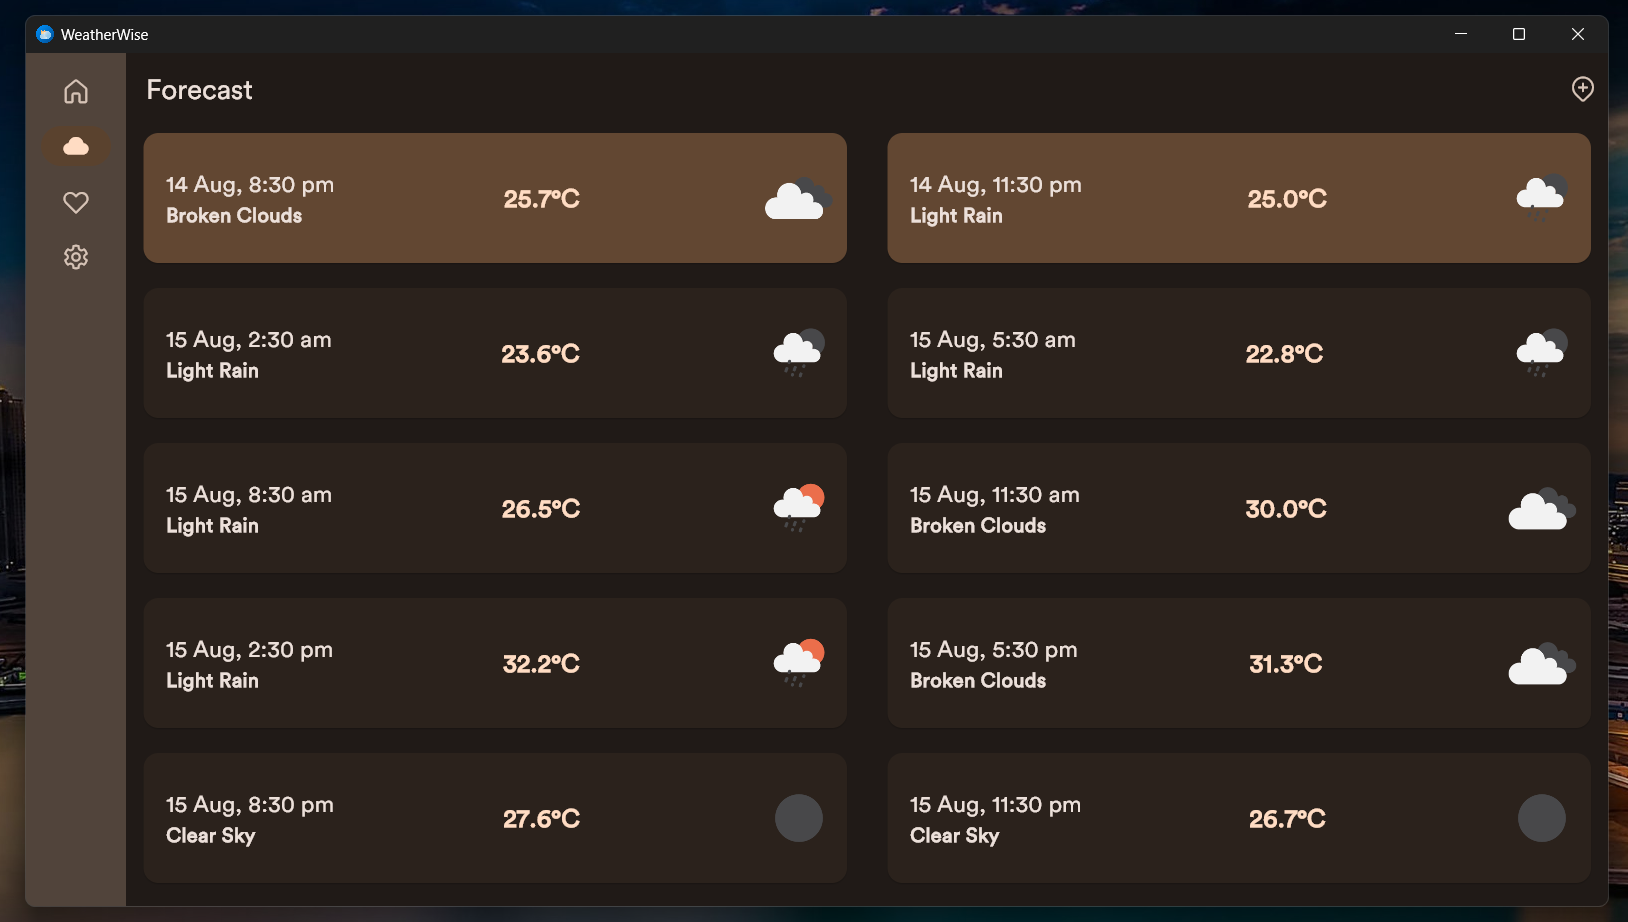
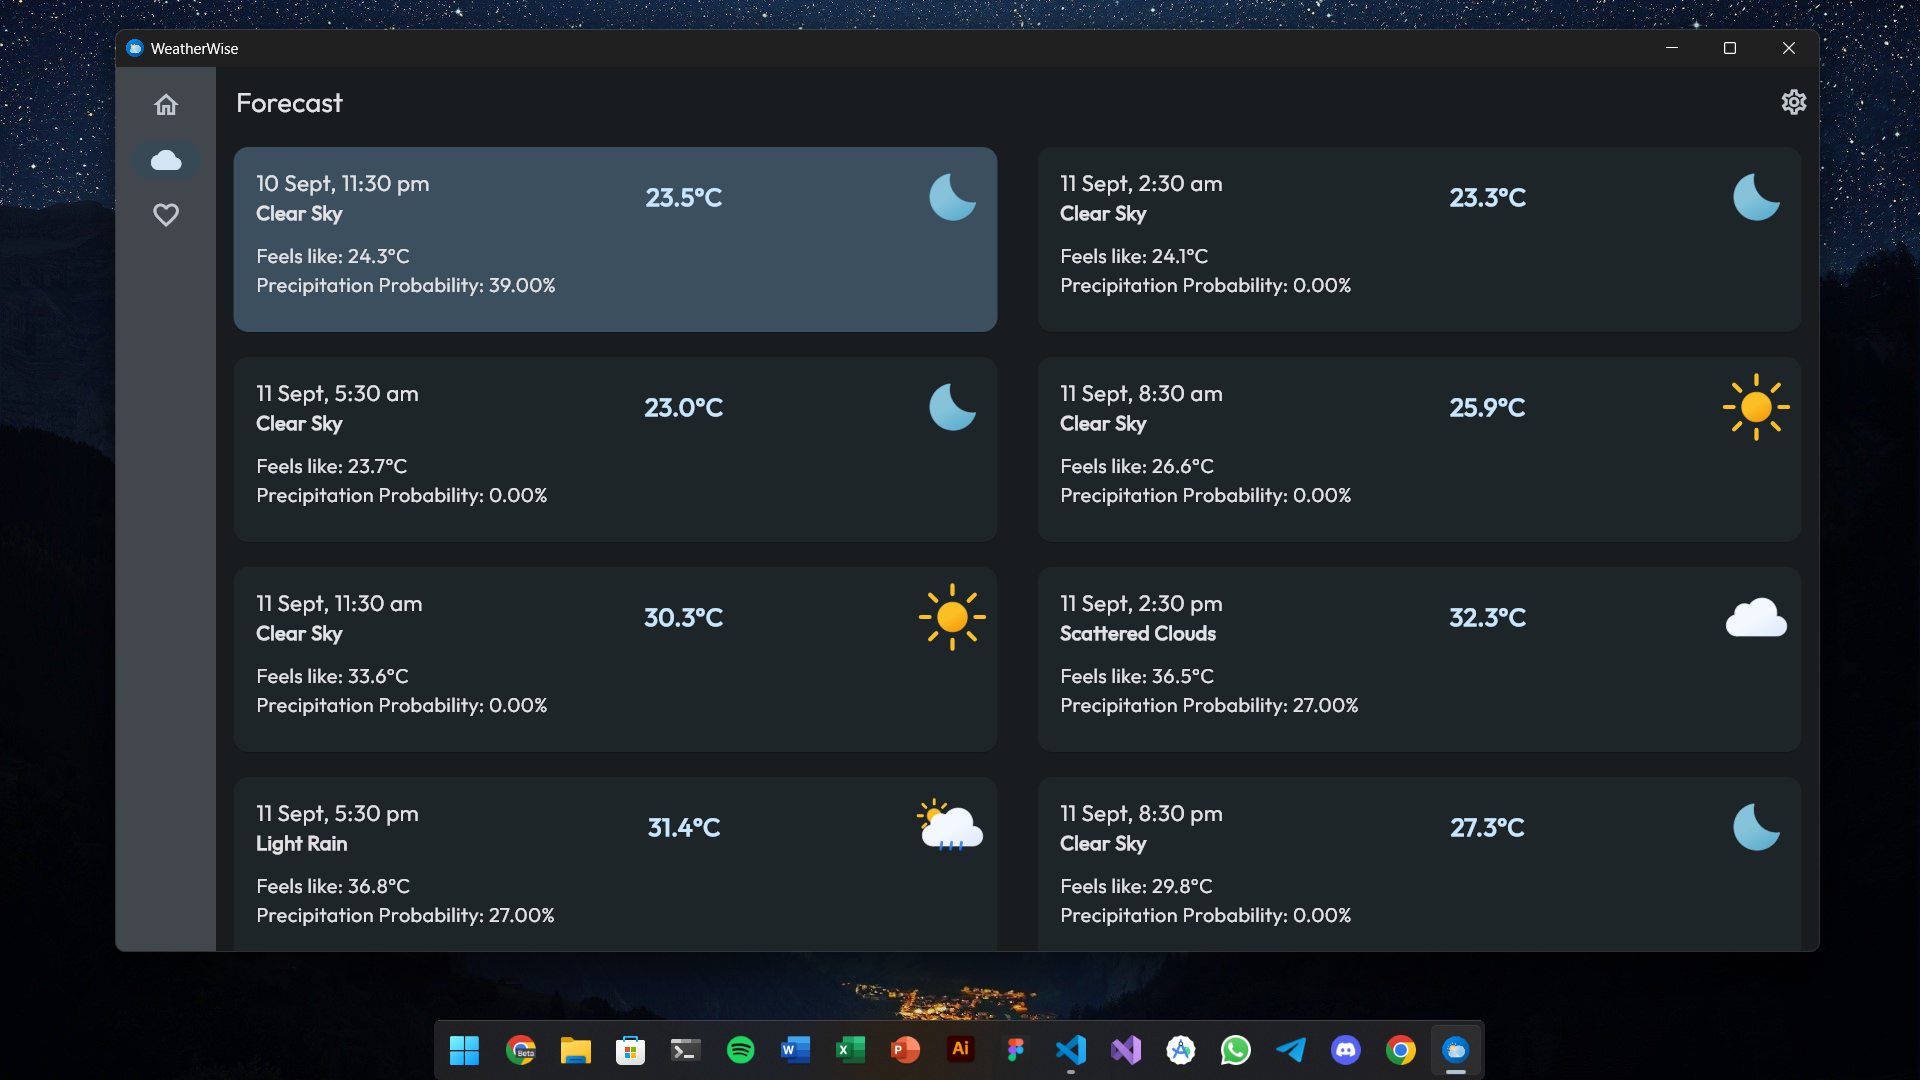
update screenshots

diff --git a/readme.md b/readme.md
@@ -21,16 +21,18 @@
 -  Proper material design with support for **material you design**
 -  Custom accent colours when dynamic colours are off.
 -  Get **current weather data**
--  Get **forecast data for 5 days of 3-hour intervals**
+-  Get **forecast weather information for future periods**
 -  Monet-based splash screen for Android 12+ devices.
 -  Monochrome icon for Android 13+ devices.
+-  **Beautiful homescreen widgets** for Android devices (Available in Glance, Pixel-style Glance, Detailed & tile widget)
+-  **Cross-platform** support (Currently Android & Windows based devices)
 -  Theme switcher (Light, dark and AMOLED/black mode)
 -  Font chooser option from Google fonts
 -  Weather-based on GPS location or manually entered text with autocomplete.
 -  Save locations locally and the ability to delete them.
--  Change temperature units
+-  Change various units of measurement (temperature, wind, rain/snow, pressure)
 -  Change navigation label behaviour
--  Change inactive places icon style
+-  Change icon style for your saved inactive places
 -  Theme matching icons and splash icons
 -  Material you based android widgets
 - Powerful Weather APIs such as [OpenWeather](https://openweathermap.org/api), [AccuWeather](https://www.accuweather.com/) and [FreeWeatherApi](https://weatherapi.com/)
@@ -80,10 +82,20 @@
 
 #### Mobile-
 
-| <img src="./screenshots/android/HomeDark.jpg" width="180"/> | <img src="./screenshots/android/ForecastDark.jpg" width="180"/> | <img src="./screenshots/android/ForecastDetailsDark.jpg" width="180"/> | <img src="./screenshots/android/SavedDark.jpg" width="180"/> |
+| <img src="./screenshots/android/HomeDark.png" width="180"/> | <img src="./screenshots/android/ForecastDark.png" width="180"/> | <img src="./screenshots/android/ForecastDetailsDark.png" width="180"/> | <img src="./screenshots/android/SavedDark.png" width="180"/> |
 | ----------------------------------------------------------- | --------------------------------------------------------------- | ---------------------------------------------------------------------- | ------------------------------------------------------------ |
 
-#### Tablet/desktop-
+#### Foldables-
+
+| <img src="./screenshots/foldables/HomeDark.png" width="220"/> | <img src="./screenshots/foldables/ForecastDark.png" width="220"/> | <img src="./screenshots/foldables/ForecastDetailsDark.png" width="220"/> | <img src="./screenshots/foldables/SavedDark.png" width="220"/> |
+| ----------------------------------------------------------- | --------------------------------------------------------------- | ---------------------------------------------------------------------- | ------------------------------------------------------------ |
+
+#### Tablet-
+
+| <img src="./screenshots/tablet/HomeDark.png" width="220"/> | <img src="./screenshots/tablet/ForecastDark.png" width="220"/> | <img src="./screenshots/tablet/ForecastDetailsDark.png" width="220"/> | <img src="./screenshots/tablet/SavedDark.png" width="220"/> |
+| ----------------------------------------------------------- | --------------------------------------------------------------- | ---------------------------------------------------------------------- | ------------------------------------------------------------ |
+
+#### Desktop-
 
 | <img src="./screenshots/windows/HomeDark.png" width="220"/> | <img src="./screenshots/windows/ForecastDark.png" width="220"/> | <img src="./screenshots/windows/ForecastDetailsDark.png" width="220"/> | <img src="./screenshots/windows/SavedDark.png" width="220"/> |
 | ----------------------------------------------------------- | --------------------------------------------------------------- | ---------------------------------------------------------------------- | ------------------------------------------------------------ |
